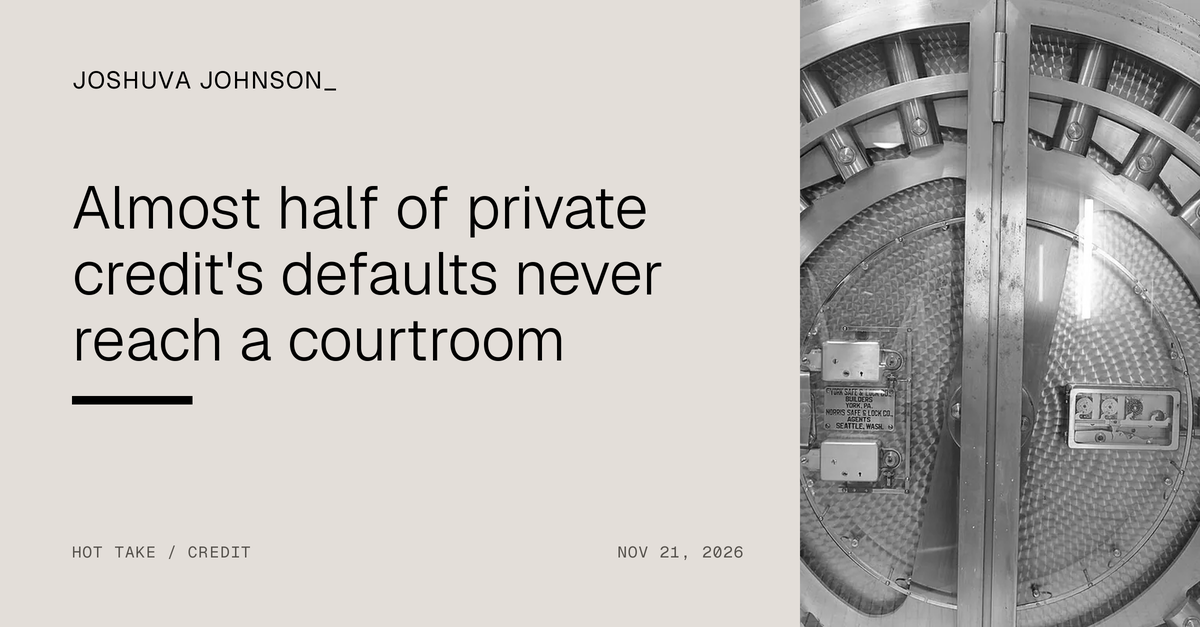
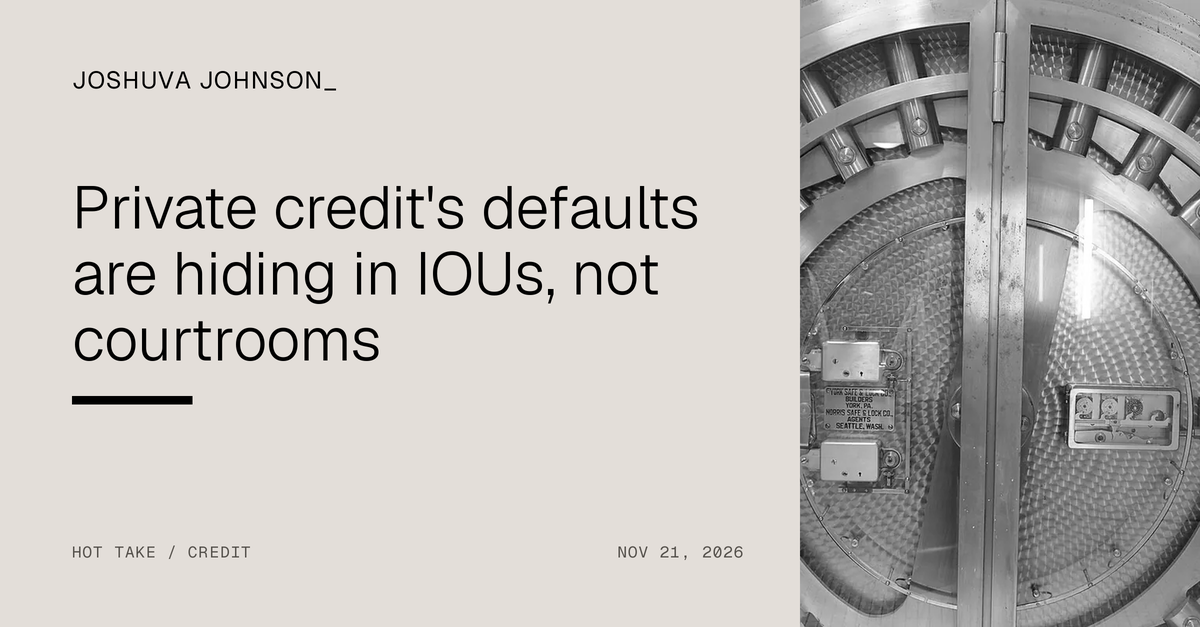
Notes: opinionated titles
- Did Microsoft just tell us where the AI bottleneck is?
- Private credit's defaults are hiding in IOUs, not courtrooms
- The AI story didn't break this week. Trust in it did.
- Wall Street bonuses are up again. 2026 might be the peak.
URLs unchanged; share images redrawn; Pitch Framework link text updated.

Claude-Session: https://claude.ai/code/session_01Dc4KQMDr4px4SMpMrXU2Lh

Changed region(s): [[0.0617, 0.3939, 0.555, 0.4848], [0.0617, 0.2727, 0.5858, 0.3636], [0.0617, 0.5152, 0.4933, 0.5758]]

diff --git a/index.html b/index.html
@@ -73,7 +73,7 @@
 <g class="x sn" data-s="computing copper energy metals power" data-k="energy" tabindex="0" role="button" aria-pressed="false" aria-label="Energy" aria-describedby="wc-energy"><circle class="hit" cx="250" cy="106" r="22"/><rect x="243" y="99" width="14" height="14"/><text class="snl" x="234" y="111" text-anchor="end">ENERGY</text></g>
 <a class="x bn pc" href="/research/copper/" data-s="copper energy metals" data-k="copper" aria-describedby="wc-copper"><circle class="halo" cx="190.0" cy="196.0" r="9"/><circle cx="190.0" cy="196.0" r="4.5"/><text class="bll" x="202" y="201" text-anchor="start">COPPER</text><title>Copper</title></a>
 <a class="x cn pc" href="/research/quantinuum/" data-s="computing" data-k="computing"><circle cx="362.8" cy="239.0" r="4.5"/><text class="tk" x="353" y="244" text-anchor="end">QNT</text><title>Quantinuum: Stock pitch: Hold</title></a>
-<a class="x cn pc" href="/notes/ai-bottleneck/" data-s="computing" data-k="computing"><circle cx="420.0" cy="140.0" r="4.5"/><text class="tk" x="420" y="130" text-anchor="middle">MSFT</text><title>Microsoft: Microsoft just told you where the AI bottleneck is</title></a>
+<a class="x cn pc" href="/notes/ai-bottleneck/" data-s="computing" data-k="computing"><circle cx="420.0" cy="140.0" r="4.5"/><text class="tk" x="420" y="130" text-anchor="middle">MSFT</text><title>Microsoft: Did Microsoft just tell us where the AI bottleneck is?</title></a>
 <g class="x cn" data-s="computing" data-k="computing"><circle cx="420.0" cy="272.0" r="4.5"/><text class="tk" x="420" y="292" text-anchor="middle">NVDA</text><title>Nvidia</title></g>
 <g class="x sn" data-s="computing defense drugs energy healthcare pltr power" data-k="computing" tabindex="0" role="button" aria-pressed="false" aria-label="Computing" aria-describedby="wc-computing"><circle class="hit" cx="420" cy="206" r="22"/><rect x="413" y="199" width="14" height="14"/><text class="snl" x="436" y="211" text-anchor="start">COMPUTING</text></g>
 <a class="x bn pc" href="/notes/ai-bottleneck/" data-s="computing energy power" data-k="power" aria-describedby="wc-power"><circle class="halo" cx="335.0" cy="156.0" r="9"/><circle cx="335.0" cy="156.0" r="4.5"/><text class="bll" x="344" y="147" text-anchor="start">AI POWER</text><title>AI power</title></a>
@@ -102,7 +102,7 @@
 <g class="x sn" data-s="computing copper energy metals power" data-k="energy" tabindex="0" role="button" aria-pressed="false" aria-label="Energy" aria-describedby="wc-energy"><circle class="hit" cx="250" cy="215" r="22"/><rect x="243" y="208" width="14" height="14"/><text class="snl" x="266" y="220" text-anchor="start">ENERGY</text></g>
 <a class="x bn pc" href="/research/copper/" data-s="copper energy metals" data-k="copper" aria-describedby="wc-copper"><circle class="halo" cx="180.0" cy="147.5" r="9"/><circle cx="180.0" cy="147.5" r="4.5"/><text class="bll" x="168" y="152" text-anchor="end">COPPER</text><title>Copper</title></a>
 <a class="x cn pc" href="/research/quantinuum/" data-s="computing" data-k="computing"><circle cx="132.0" cy="380.0" r="4.5"/><text class="tk" x="122" y="385" text-anchor="end">QNT</text><title>Quantinuum: Stock pitch: Hold</title></a>
-<a class="x cn pc" href="/notes/ai-bottleneck/" data-s="computing" data-k="computing"><circle cx="145.6" cy="342.7" r="4.5"/><text class="tk" x="136" y="348" text-anchor="end">MSFT</text><title>Microsoft: Microsoft just told you where the AI bottleneck is</title></a>
+<a class="x cn pc" href="/notes/ai-bottleneck/" data-s="computing" data-k="computing"><circle cx="145.6" cy="342.7" r="4.5"/><text class="tk" x="136" y="348" text-anchor="end">MSFT</text><title>Microsoft: Did Microsoft just tell us where the AI bottleneck is?</title></a>
 <g class="x cn" data-s="computing" data-k="computing"><circle cx="190.0" cy="438.0" r="4.5"/><text class="tk" x="190" y="458" text-anchor="middle">NVDA</text><title>Nvidia</title></g>
 <g class="x sn" data-s="computing defense drugs energy healthcare pltr power" data-k="computing" tabindex="0" role="button" aria-pressed="false" aria-label="Computing" aria-describedby="wc-computing"><circle class="hit" cx="190" cy="380" r="22"/><rect x="183" y="373" width="14" height="14"/><text class="snl" x="206" y="385" text-anchor="start">COMPUTING</text></g>
 <a class="x bn pc" href="/notes/ai-bottleneck/" data-s="computing energy power" data-k="power" aria-describedby="wc-power"><circle class="halo" cx="220.0" cy="297.5" r="9"/><circle cx="220.0" cy="297.5" r="4.5"/><text class="bll" x="232" y="302" text-anchor="start">AI POWER</text><title>AI power</title></a>
@@ -117,7 +117,7 @@
 <g class="x sn" data-s="computing drugs healthcare" data-k="healthcare" tabindex="0" role="button" aria-pressed="false" aria-label="Healthcare" aria-describedby="wc-healthcare"><circle class="hit" cx="110" cy="560" r="22"/><rect x="103" y="553" width="14" height="14"/><text class="snl" x="94" y="565" text-anchor="end">HEALTHCARE</text></g>
 <g class="x bn" data-s="computing drugs healthcare" data-k="drugs" tabindex="0" role="button" aria-pressed="false" aria-label="Drug discovery" aria-describedby="wc-drugs"><circle class="halo" cx="150.0" cy="470.0" r="9"/><circle cx="150.0" cy="470.0" r="4.5"/><text class="bll" x="138" y="475" text-anchor="end">DRUG DISCOVERY</text><title>Drug discovery</title></g>
 </svg>
-<figcaption class="wcap" aria-live="polite"><p class="wc wc-0">Interactive visual</p><p class="wc wc-metals" id="wc-metals"><b>Precious Metals:</b> Newmont, Agnico Eagle, and Wheaton Precious Metals. Linked to Energy through copper.</p><p class="wc wc-energy" id="wc-energy"><b>Energy:</b> <a href="/research/eaton/">Eaton</a>, GE Vernova, Vertiv, and Constellation Energy. Linked to Precious Metals through copper and to Computing through AI power demand.</p><p class="wc wc-computing" id="wc-computing"><b>Computing:</b> <a href="/research/palantir/">Palantir</a>, <a href="/research/quantinuum/">Quantinuum</a>, <a href="/notes/ai-bottleneck/">Microsoft</a>, and Nvidia. Linked to Energy through AI power demand, to Defense through Palantir, and to Healthcare through AI drug discovery.</p><p class="wc wc-defense" id="wc-defense"><b>Defense:</b> <a href="/research/palantir/">Palantir</a>, Lockheed Martin, RTX, and General Dynamics. Linked to Computing through Palantir.</p><p class="wc wc-healthcare" id="wc-healthcare"><b>Healthcare:</b> Eli Lilly, UnitedHealth, and Intuitive Surgical. Linked to Computing through AI drug discovery.</p><p class="wc wc-copper" id="wc-copper"><b>Copper, between Precious Metals and Energy:</b> Grids need copper. Newmont mined 135,000 tonnes of it last year, and Wheaton&#x27;s biggest gold stream comes from a copper mine. <a href="/research/copper/">Copper: a supply story that just met a demand scare</a>.</p><p class="wc wc-power" id="wc-power"><b>AI power, between Energy and Computing:</b> Microsoft&#x27;s AI capacity is running late on buildings, grid connections and power gear, which is what Eaton, Vertiv and GE Vernova sell. <a href="/notes/ai-bottleneck/">Microsoft just told you where the AI bottleneck is</a>.</p><p class="wc wc-pltr" id="wc-pltr"><b>Palantir, between Computing and Defense:</b> Palantir sells the same software to companies and to the U.S. military. <a href="/research/palantir/">Stock pitch: Sell</a>.</p><p class="wc wc-drugs" id="wc-drugs"><b>Drug discovery, between Computing and Healthcare:</b> Lilly&#x27;s AI supercomputer, built for drug discovery, runs on 1,016 Nvidia GPUs.</p></figcaption>
+<figcaption class="wcap" aria-live="polite"><p class="wc wc-0">Interactive visual</p><p class="wc wc-metals" id="wc-metals"><b>Precious Metals:</b> Newmont, Agnico Eagle, and Wheaton Precious Metals. Linked to Energy through copper.</p><p class="wc wc-energy" id="wc-energy"><b>Energy:</b> <a href="/research/eaton/">Eaton</a>, GE Vernova, Vertiv, and Constellation Energy. Linked to Precious Metals through copper and to Computing through AI power demand.</p><p class="wc wc-computing" id="wc-computing"><b>Computing:</b> <a href="/research/palantir/">Palantir</a>, <a href="/research/quantinuum/">Quantinuum</a>, <a href="/notes/ai-bottleneck/">Microsoft</a>, and Nvidia. Linked to Energy through AI power demand, to Defense through Palantir, and to Healthcare through AI drug discovery.</p><p class="wc wc-defense" id="wc-defense"><b>Defense:</b> <a href="/research/palantir/">Palantir</a>, Lockheed Martin, RTX, and General Dynamics. Linked to Computing through Palantir.</p><p class="wc wc-healthcare" id="wc-healthcare"><b>Healthcare:</b> Eli Lilly, UnitedHealth, and Intuitive Surgical. Linked to Computing through AI drug discovery.</p><p class="wc wc-copper" id="wc-copper"><b>Copper, between Precious Metals and Energy:</b> Grids need copper. Newmont mined 135,000 tonnes of it last year, and Wheaton&#x27;s biggest gold stream comes from a copper mine. <a href="/research/copper/">Copper: a supply story that just met a demand scare</a>.</p><p class="wc wc-power" id="wc-power"><b>AI power, between Energy and Computing:</b> Microsoft&#x27;s AI capacity is running late on buildings, grid connections and power gear, which is what Eaton, Vertiv and GE Vernova sell. <a href="/notes/ai-bottleneck/">Did Microsoft just tell us where the AI bottleneck is?</a>.</p><p class="wc wc-pltr" id="wc-pltr"><b>Palantir, between Computing and Defense:</b> Palantir sells the same software to companies and to the U.S. military. <a href="/research/palantir/">Stock pitch: Sell</a>.</p><p class="wc wc-drugs" id="wc-drugs"><b>Drug discovery, between Computing and Healthcare:</b> Lilly&#x27;s AI supercomputer, built for drug discovery, runs on 1,016 Nvidia GPUs.</p></figcaption>
 </figure>
     </section>
     <aside class="front-side">
@@ -135,7 +135,7 @@
       </section>
       <section aria-labelledby="latest-title">
         <h2 class="lbl" id="latest-title">Latest note</h2>
-        <a class="latest" href="/notes/rates-sell-off/">The price of risk, not the price of money</a>
+        <a class="latest" href="/notes/rates-sell-off/">The AI story didn&#x27;t break this week. Trust in it did.</a>
       </section>
     </aside>
   </div>
@@ -146,9 +146,9 @@
     <section aria-labelledby="notes-title">
       <div class="lbl-row"><h2 class="lbl" id="notes-title">Notes</h2><a class="go" href="/notes/" aria-label="All notes" title="All notes"><svg viewBox="0 0 16 16" aria-hidden="true"><path d="M2.5 8h10.5M9 4l4 4-4 4"/></svg></a></div>
       <ul class="hl">
-        <li><a href="/notes/ai-bottleneck/">Microsoft just told you where the AI bottleneck is</a></li>
-        <li><a href="/notes/private-credit-defaults/">Almost half of private credit&#x27;s defaults never reach a courtroom</a></li>
-        <li><a href="/notes/bonus-season/">Wall Street is about to get paid for a market that just changed</a></li>
+        <li><a href="/notes/ai-bottleneck/">Did Microsoft just tell us where the AI bottleneck is?</a></li>
+        <li><a href="/notes/private-credit-defaults/">Private credit&#x27;s defaults are hiding in IOUs, not courtrooms</a></li>
+        <li><a href="/notes/bonus-season/">Wall Street bonuses are up again. 2026 might be the peak.</a></li>
       </ul>
     </section>
     <section aria-labelledby="research-title">

diff --git a/notes/private-credit-defaults/index.html b/notes/private-credit-defaults/index.html
@@ -3,18 +3,18 @@
 <head>
 <meta charset="utf-8">
 <meta name="viewport" content="width=device-width, initial-scale=1">
-<title>Almost half of private credit&#x27;s defaults never reach a courtroom | Joshuva Johnson</title>
+<title>Private credit&#x27;s defaults are hiding in IOUs, not courtrooms | Joshuva Johnson</title>
 <meta name="description" content="Fitch&#x27;s default rate has been at or above 6% since April. Many of those borrowers now pay interest with more debt instead of cash, which delays the losses without avoiding them.">
 <link rel="canonical" href="https://joshuvajohnson.github.io/notes/private-credit-defaults/">
 <meta property="og:site_name" content="Joshuva Johnson">
-<meta property="og:title" content="Almost half of private credit&#x27;s defaults never reach a courtroom">
+<meta property="og:title" content="Private credit&#x27;s defaults are hiding in IOUs, not courtrooms">
 <meta property="og:description" content="Fitch&#x27;s default rate has been at or above 6% since April. Many of those borrowers now pay interest with more debt instead of cash, which delays the losses without avoiding them.">
 <meta property="og:url" content="https://joshuvajohnson.github.io/notes/private-credit-defaults/">
 <meta property="og:type" content="article">
 <meta property="og:image" content="https://joshuvajohnson.github.io/assets/og/notes-private-credit-defaults.png">
 <meta property="og:image:width" content="1200">
 <meta property="og:image:height" content="627">
-<meta property="og:image:alt" content="Almost half of private credit&#x27;s defaults never reach a courtroom">
+<meta property="og:image:alt" content="Private credit&#x27;s defaults are hiding in IOUs, not courtrooms">
 <meta name="twitter:card" content="summary_large_image">
 <meta property="article:published_time" content="2026-11-21">
 <meta property="article:author" content="Joshuva Johnson">
@@ -47,7 +47,7 @@
 <main id="main">
 <article class="artwrap gut">
   <p class="crumbs"><a href="/notes/">Notes</a><span>/</span><span>Hot take</span></p>
-  <h1>Almost half of private credit&#x27;s defaults never reach a courtroom</h1>
+  <h1>Private credit&#x27;s defaults are hiding in IOUs, not courtrooms</h1>
   <p class="dek">Fitch&#x27;s default rate has been at or above 6% since April. Many of those borrowers now pay interest with more debt instead of cash, which delays the losses without avoiding them.</p>
   <p class="byline"><b>Joshuva Johnson</b><time datetime="2026-11-21">Nov 21, 2026</time></p>
 <figure class="lead photo"><img src="/assets/img/lead/notes-private-credit-defaults-1200.webp" srcset="/assets/img/lead/notes-private-credit-defaults-600.webp 600w, /assets/img/lead/notes-private-credit-defaults-1200.webp 1200w" sizes="(max-width: 640px) 100vw, 880px" width="1200" height="800" alt="The round steel door of an old bank vault"><figcaption>Photo: <a href="https://commons.wikimedia.org/wiki/File:Bouldering_Project_(old_University_National_Bank)_30_-_sauna_(vault)_area.jpg">Joe Mabel</a>, <a href="https://creativecommons.org/licenses/by-sa/4.0/">CC BY-SA 4.0</a>, cropped</figcaption></figure>
@@ -74,7 +74,7 @@
 <li><a href="https://www.efinancialcareers.com/news/2026-bonuses-finance">2026 bonuses in finance</a>, eFinancialCareers</li>
 </ol></section>
 
-  <nav class="pager" aria-label="More in Notes"><a class="nextup" href="/notes/ai-bottleneck/"><p class="kick">Previous</p><h3>Microsoft just told you where the AI bottleneck is</h3></a><a class="nextup" href="/notes/bonus-season/"><p class="kick">Next</p><h3>Wall Street is about to get paid for a market that just changed</h3></a></nav>
+  <nav class="pager" aria-label="More in Notes"><a class="nextup" href="/notes/ai-bottleneck/"><p class="kick">Previous</p><h3>Did Microsoft just tell us where the AI bottleneck is?</h3></a><a class="nextup" href="/notes/bonus-season/"><p class="kick">Next</p><h3>Wall Street bonuses are up again. 2026 might be the peak.</h3></a></nav>
 </article>
 </main>
 

diff --git a/notes/ai-bottleneck/index.html b/notes/ai-bottleneck/index.html
@@ -3,18 +3,18 @@
 <head>
 <meta charset="utf-8">
 <meta name="viewport" content="width=device-width, initial-scale=1">
-<title>Microsoft just told you where the AI bottleneck is | Joshuva Johnson</title>
+<title>Did Microsoft just tell us where the AI bottleneck is? | Joshuva Johnson</title>
 <meta name="description" content="Microsoft is spending as fast as it can and still running short of AI capacity. The holdup is buildings, grid connections and the electrical gear in between.">
 <link rel="canonical" href="https://joshuvajohnson.github.io/notes/ai-bottleneck/">
 <meta property="og:site_name" content="Joshuva Johnson">
-<meta property="og:title" content="Microsoft just told you where the AI bottleneck is">
+<meta property="og:title" content="Did Microsoft just tell us where the AI bottleneck is?">
 <meta property="og:description" content="Microsoft is spending as fast as it can and still running short of AI capacity. The holdup is buildings, grid connections and the electrical gear in between.">
 <meta property="og:url" content="https://joshuvajohnson.github.io/notes/ai-bottleneck/">
 <meta property="og:type" content="article">
 <meta property="og:image" content="https://joshuvajohnson.github.io/assets/og/notes-ai-bottleneck.png">
 <meta property="og:image:width" content="1200">
 <meta property="og:image:height" content="627">
-<meta property="og:image:alt" content="Microsoft just told you where the AI bottleneck is">
+<meta property="og:image:alt" content="Did Microsoft just tell us where the AI bottleneck is?">
 <meta name="twitter:card" content="summary_large_image">
 <meta property="article:published_time" content="2026-11-21">
 <meta property="article:author" content="Joshuva Johnson">
@@ -47,7 +47,7 @@
 <main id="main">
 <article class="artwrap gut">
   <p class="crumbs"><a href="/notes/">Notes</a><span>/</span><span>Hot take</span></p>
-  <h1>Microsoft just told you where the AI bottleneck is</h1>
+  <h1>Did Microsoft just tell us where the AI bottleneck is?</h1>
   <p class="dek">Microsoft is spending as fast as it can and still running short of AI capacity. The holdup is buildings, grid connections and the electrical gear in between.</p>
   <p class="byline"><b>Joshuva Johnson</b><time datetime="2026-11-21">Nov 21, 2026</time></p>
 <figure class="lead photo"><img src="/assets/img/lead/notes-ai-bottleneck-1200.webp" srcset="/assets/img/lead/notes-ai-bottleneck-600.webp 600w, /assets/img/lead/notes-ai-bottleneck-1200.webp 1200w" sizes="(max-width: 640px) 100vw, 880px" width="1200" height="800" alt="Rows of server racks in a data center"><figcaption>Photo: <a href="https://commons.wikimedia.org/wiki/File:Racks_Amravati_Data_Center.jpg">PiDatacenters</a>, <a href="https://creativecommons.org/licenses/by-sa/4.0/">CC BY-SA 4.0</a>, cropped</figcaption></figure>
@@ -71,7 +71,7 @@
 <li><a href="https://www.tikr.com/blog/eaton-lost-23-in-a-month-rbc-sees-58-upside-from-here">Eaton Lost 23% in a Month</a>, TIKR</li>
 </ol></section>
 
-  <nav class="pager" aria-label="More in Notes"><a class="nextup" href="/notes/rates-sell-off/"><p class="kick">Previous</p><h3>The price of risk, not the price of money</h3></a><a class="nextup" href="/notes/private-credit-defaults/"><p class="kick">Next</p><h3>Almost half of private credit&#x27;s defaults never reach a courtroom</h3></a></nav>
+  <nav class="pager" aria-label="More in Notes"><a class="nextup" href="/notes/rates-sell-off/"><p class="kick">Previous</p><h3>The AI story didn&#x27;t break this week. Trust in it did.</h3></a><a class="nextup" href="/notes/private-credit-defaults/"><p class="kick">Next</p><h3>Private credit&#x27;s defaults are hiding in IOUs, not courtrooms</h3></a></nav>
 </article>
 </main>
 

diff --git a/notes/bonus-season/index.html b/notes/bonus-season/index.html
@@ -3,18 +3,18 @@
 <head>
 <meta charset="utf-8">
 <meta name="viewport" content="width=device-width, initial-scale=1">
-<title>Wall Street is about to get paid for a market that just changed | Joshuva Johnson</title>
+<title>Wall Street bonuses are up again. 2026 might be the peak. | Joshuva Johnson</title>
 <meta name="description" content="Johnson Associates expects bonuses to rise for a third straight year, led by equity traders and underwriters. The harder question is whether the deals that paid for them keep coming at today&#x27;s rates.">
 <link rel="canonical" href="https://joshuvajohnson.github.io/notes/bonus-season/">
 <meta property="og:site_name" content="Joshuva Johnson">
-<meta property="og:title" content="Wall Street is about to get paid for a market that just changed">
+<meta property="og:title" content="Wall Street bonuses are up again. 2026 might be the peak.">
 <meta property="og:description" content="Johnson Associates expects bonuses to rise for a third straight year, led by equity traders and underwriters. The harder question is whether the deals that paid for them keep coming at today&#x27;s rates.">
 <meta property="og:url" content="https://joshuvajohnson.github.io/notes/bonus-season/">
 <meta property="og:type" content="article">
 <meta property="og:image" content="https://joshuvajohnson.github.io/assets/og/notes-bonus-season.png">
 <meta property="og:image:width" content="1200">
 <meta property="og:image:height" content="627">
-<meta property="og:image:alt" content="Wall Street is about to get paid for a market that just changed">
+<meta property="og:image:alt" content="Wall Street bonuses are up again. 2026 might be the peak.">
 <meta name="twitter:card" content="summary_large_image">
 <meta property="article:published_time" content="2026-11-21">
 <meta property="article:author" content="Joshuva Johnson">
@@ -47,7 +47,7 @@
 <main id="main">
 <article class="artwrap gut">
   <p class="crumbs"><a href="/notes/">Notes</a><span>/</span><span>Hot take</span></p>
-  <h1>Wall Street is about to get paid for a market that just changed</h1>
+  <h1>Wall Street bonuses are up again. 2026 might be the peak.</h1>
   <p class="dek">Johnson Associates expects bonuses to rise for a third straight year, led by equity traders and underwriters. The harder question is whether the deals that paid for them keep coming at today&#x27;s rates.</p>
   <p class="byline"><b>Joshuva Johnson</b><time datetime="2026-11-21">Nov 21, 2026</time></p>
 <figure class="lead photo"><img src="/assets/img/lead/notes-bonus-season-1200.webp" srcset="/assets/img/lead/notes-bonus-season-600.webp 600w, /assets/img/lead/notes-bonus-season-1200.webp 1200w" sizes="(max-width: 640px) 100vw, 880px" width="1200" height="800" alt="A Wall Street street sign against a glass office tower"><figcaption>Photo: <a href="https://commons.wikimedia.org/wiki/File:Wall-Street-Sign-New-York.jpg">Acediscovery</a>, <a href="https://creativecommons.org/licenses/by/4.0/">CC BY 4.0</a>, cropped</figcaption></figure>
@@ -69,7 +69,7 @@
 <li><a href="https://www.morningstar.com/news/dow-jones/202611198503/10-year-treasury-yield-falls-to-5051-data-talk">10-Year Treasury Yield Falls to 5.051%</a>, Dow Jones via Morningstar</li>
 </ol></section>
 
-  <nav class="pager" aria-label="More in Notes"><a class="nextup" href="/notes/private-credit-defaults/"><p class="kick">Previous</p><h3>Almost half of private credit&#x27;s defaults never reach a courtroom</h3></a></nav>
+  <nav class="pager" aria-label="More in Notes"><a class="nextup" href="/notes/private-credit-defaults/"><p class="kick">Previous</p><h3>Private credit&#x27;s defaults are hiding in IOUs, not courtrooms</h3></a></nav>
 </article>
 </main>
 

diff --git a/notes/rates-sell-off/index.html b/notes/rates-sell-off/index.html
@@ -3,18 +3,18 @@
 <head>
 <meta charset="utf-8">
 <meta name="viewport" content="width=device-width, initial-scale=1">
-<title>The price of risk, not the price of money | Joshuva Johnson</title>
+<title>The AI story didn&#x27;t break this week. Trust in it did. | Joshuva Johnson</title>
 <meta name="description" content="The 10-year Treasury yield fell this week, and the S&amp;P 500 dropped 8.6% anyway. Investors are charging more to hold risk, and the AI trade sits in the middle of it.">
 <link rel="canonical" href="https://joshuvajohnson.github.io/notes/rates-sell-off/">
 <meta property="og:site_name" content="Joshuva Johnson">
-<meta property="og:title" content="The price of risk, not the price of money">
+<meta property="og:title" content="The AI story didn&#x27;t break this week. Trust in it did.">
 <meta property="og:description" content="The 10-year Treasury yield fell this week, and the S&amp;P 500 dropped 8.6% anyway. Investors are charging more to hold risk, and the AI trade sits in the middle of it.">
 <meta property="og:url" content="https://joshuvajohnson.github.io/notes/rates-sell-off/">
 <meta property="og:type" content="article">
 <meta property="og:image" content="https://joshuvajohnson.github.io/assets/og/notes-rates-sell-off.png">
 <meta property="og:image:width" content="1200">
 <meta property="og:image:height" content="627">
-<meta property="og:image:alt" content="The price of risk, not the price of money">
+<meta property="og:image:alt" content="The AI story didn&#x27;t break this week. Trust in it did.">
 <meta name="twitter:card" content="summary_large_image">
 <meta property="article:published_time" content="2026-11-22">
 <meta property="article:author" content="Joshuva Johnson">
@@ -47,7 +47,7 @@
 <main id="main">
 <article class="artwrap gut">
   <p class="crumbs"><a href="/notes/">Notes</a><span>/</span><span>Hot take</span></p>
-  <h1>The price of risk, not the price of money</h1>
+  <h1>The AI story didn&#x27;t break this week. Trust in it did.</h1>
   <p class="dek">The 10-year Treasury yield fell this week, and the S&amp;P 500 dropped 8.6% anyway. Investors are charging more to hold risk, and the AI trade sits in the middle of it.</p>
   <p class="byline"><b>Joshuva Johnson</b><time datetime="2026-11-22">Nov 22, 2026</time></p>
 <figure class="lead photo"><img src="/assets/img/lead/notes-rates-sell-off-1200.webp" srcset="/assets/img/lead/notes-rates-sell-off-600.webp 600w, /assets/img/lead/notes-rates-sell-off-1200.webp 1200w" sizes="(max-width: 640px) 100vw, 880px" width="1200" height="800" alt="The columns of the New York Stock Exchange on Broad Street"><figcaption>Photo: <a href="https://commons.wikimedia.org/wiki/File:Sign_of_the_New_York_Stock_Exchange,_Broad_Street.jpg">Billie Grace Ward</a>, <a href="https://creativecommons.org/publicdomain/zero/1.0/">CC0</a></figcaption></figure>
@@ -94,7 +94,7 @@
 <li><a href="https://www.fxstreet.com/news/us-10-year-treasury-yield-slips-below-5-as-global-equity-rout-deepens-202611201233">US 10-year Treasury yield slips below 5% as global equity rout deepens</a>, FXStreet, Nov 20, 2026</li>
 </ol></section>
 
-  <nav class="pager" aria-label="More in Notes"><a class="nextup" href="/notes/ai-bottleneck/"><p class="kick">Next</p><h3>Microsoft just told you where the AI bottleneck is</h3></a></nav>
+  <nav class="pager" aria-label="More in Notes"><a class="nextup" href="/notes/ai-bottleneck/"><p class="kick">Next</p><h3>Did Microsoft just tell us where the AI bottleneck is?</h3></a></nav>
 </article>
 </main>
 

diff --git a/notes/index.html b/notes/index.html
@@ -47,10 +47,10 @@
 <section class="gut" aria-label="All notes">
   <div class="wrap">
     <div class="grid2">
-      <a class="cardlink" href="/notes/rates-sell-off/"><div class="card"><h3>The price of risk, not the price of money</h3><p class="dek">The 10-year Treasury yield fell this week, and the S&amp;P 500 dropped 8.6% anyway. Investors are charging more to hold risk, and the AI trade sits in the middle of it.</p></div></a>
-      <a class="cardlink" href="/notes/ai-bottleneck/"><div class="card"><h3>Microsoft just told you where the AI bottleneck is</h3><p class="dek">Microsoft is spending as fast as it can and still running short of AI capacity. The holdup is buildings, grid connections and the electrical gear in between.</p></div></a>
-      <a class="cardlink" href="/notes/private-credit-defaults/"><div class="card"><h3>Almost half of private credit&#x27;s defaults never reach a courtroom</h3><p class="dek">Fitch&#x27;s default rate has been at or above 6% since April. Many of those borrowers now pay interest with more debt instead of cash, which delays the losses without avoiding them.</p></div></a>
-      <a class="cardlink" href="/notes/bonus-season/"><div class="card"><h3>Wall Street is about to get paid for a market that just changed</h3><p class="dek">Johnson Associates expects bonuses to rise for a third straight year, led by equity traders and underwriters. The harder question is whether the deals that paid for them keep coming at today&#x27;s rates.</p></div></a>
+      <a class="cardlink" href="/notes/rates-sell-off/"><div class="card"><h3>The AI story didn&#x27;t break this week. Trust in it did.</h3><p class="dek">The 10-year Treasury yield fell this week, and the S&amp;P 500 dropped 8.6% anyway. Investors are charging more to hold risk, and the AI trade sits in the middle of it.</p></div></a>
+      <a class="cardlink" href="/notes/ai-bottleneck/"><div class="card"><h3>Did Microsoft just tell us where the AI bottleneck is?</h3><p class="dek">Microsoft is spending as fast as it can and still running short of AI capacity. The holdup is buildings, grid connections and the electrical gear in between.</p></div></a>
+      <a class="cardlink" href="/notes/private-credit-defaults/"><div class="card"><h3>Private credit&#x27;s defaults are hiding in IOUs, not courtrooms</h3><p class="dek">Fitch&#x27;s default rate has been at or above 6% since April. Many of those borrowers now pay interest with more debt instead of cash, which delays the losses without avoiding them.</p></div></a>
+      <a class="cardlink" href="/notes/bonus-season/"><div class="card"><h3>Wall Street bonuses are up again. 2026 might be the peak.</h3><p class="dek">Johnson Associates expects bonuses to rise for a third straight year, led by equity traders and underwriters. The harder question is whether the deals that paid for them keep coming at today&#x27;s rates.</p></div></a>
     </div>
   </div>
 </section>

diff --git a/thoughts/private-credit-defaults/index.html b/thoughts/private-credit-defaults/index.html
@@ -1,1 +1,1 @@
-<!DOCTYPE html><html lang="en"><head><meta charset="utf-8"><title>Almost half of private credit&#x27;s defaults never reach a courtroom | Joshuva Johnson</title><link rel="canonical" href="https://joshuvajohnson.github.io/notes/private-credit-defaults/"><meta name="robots" content="noindex"><meta http-equiv="refresh" content="0; url=/notes/private-credit-defaults/"><script>location.replace("/notes/private-credit-defaults/"+location.hash)</script></head><body><p>This page moved to <a href="/notes/private-credit-defaults/">Almost half of private credit&#x27;s defaults never reach a courtroom</a>.</p></body></html>
+<!DOCTYPE html><html lang="en"><head><meta charset="utf-8"><title>Private credit&#x27;s defaults are hiding in IOUs, not courtrooms | Joshuva Johnson</title><link rel="canonical" href="https://joshuvajohnson.github.io/notes/private-credit-defaults/"><meta name="robots" content="noindex"><meta http-equiv="refresh" content="0; url=/notes/private-credit-defaults/"><script>location.replace("/notes/private-credit-defaults/"+location.hash)</script></head><body><p>This page moved to <a href="/notes/private-credit-defaults/">Private credit&#x27;s defaults are hiding in IOUs, not courtrooms</a>.</p></body></html>

diff --git a/thoughts/bonus-season/index.html b/thoughts/bonus-season/index.html
@@ -1,1 +1,1 @@
-<!DOCTYPE html><html lang="en"><head><meta charset="utf-8"><title>Wall Street is about to get paid for a market that just changed | Joshuva Johnson</title><link rel="canonical" href="https://joshuvajohnson.github.io/notes/bonus-season/"><meta name="robots" content="noindex"><meta http-equiv="refresh" content="0; url=/notes/bonus-season/"><script>location.replace("/notes/bonus-season/"+location.hash)</script></head><body><p>This page moved to <a href="/notes/bonus-season/">Wall Street is about to get paid for a market that just changed</a>.</p></body></html>
+<!DOCTYPE html><html lang="en"><head><meta charset="utf-8"><title>Wall Street bonuses are up again. 2026 might be the peak. | Joshuva Johnson</title><link rel="canonical" href="https://joshuvajohnson.github.io/notes/bonus-season/"><meta name="robots" content="noindex"><meta http-equiv="refresh" content="0; url=/notes/bonus-season/"><script>location.replace("/notes/bonus-season/"+location.hash)</script></head><body><p>This page moved to <a href="/notes/bonus-season/">Wall Street bonuses are up again. 2026 might be the peak.</a>.</p></body></html>

diff --git a/thoughts/ai-bottleneck/index.html b/thoughts/ai-bottleneck/index.html
@@ -1,1 +1,1 @@
-<!DOCTYPE html><html lang="en"><head><meta charset="utf-8"><title>Microsoft just told you where the AI bottleneck is | Joshuva Johnson</title><link rel="canonical" href="https://joshuvajohnson.github.io/notes/ai-bottleneck/"><meta name="robots" content="noindex"><meta http-equiv="refresh" content="0; url=/notes/ai-bottleneck/"><script>location.replace("/notes/ai-bottleneck/"+location.hash)</script></head><body><p>This page moved to <a href="/notes/ai-bottleneck/">Microsoft just told you where the AI bottleneck is</a>.</p></body></html>
+<!DOCTYPE html><html lang="en"><head><meta charset="utf-8"><title>Did Microsoft just tell us where the AI bottleneck is? | Joshuva Johnson</title><link rel="canonical" href="https://joshuvajohnson.github.io/notes/ai-bottleneck/"><meta name="robots" content="noindex"><meta http-equiv="refresh" content="0; url=/notes/ai-bottleneck/"><script>location.replace("/notes/ai-bottleneck/"+location.hash)</script></head><body><p>This page moved to <a href="/notes/ai-bottleneck/">Did Microsoft just tell us where the AI bottleneck is?</a>.</p></body></html>

diff --git a/thoughts/rates-sell-off/index.html b/thoughts/rates-sell-off/index.html
@@ -1,1 +1,1 @@
-<!DOCTYPE html><html lang="en"><head><meta charset="utf-8"><title>The price of risk, not the price of money | Joshuva Johnson</title><link rel="canonical" href="https://joshuvajohnson.github.io/notes/rates-sell-off/"><meta name="robots" content="noindex"><meta http-equiv="refresh" content="0; url=/notes/rates-sell-off/"><script>location.replace("/notes/rates-sell-off/"+location.hash)</script></head><body><p>This page moved to <a href="/notes/rates-sell-off/">The price of risk, not the price of money</a>.</p></body></html>
+<!DOCTYPE html><html lang="en"><head><meta charset="utf-8"><title>The AI story didn&#x27;t break this week. Trust in it did. | Joshuva Johnson</title><link rel="canonical" href="https://joshuvajohnson.github.io/notes/rates-sell-off/"><meta name="robots" content="noindex"><meta http-equiv="refresh" content="0; url=/notes/rates-sell-off/"><script>location.replace("/notes/rates-sell-off/"+location.hash)</script></head><body><p>This page moved to <a href="/notes/rates-sell-off/">The AI story didn&#x27;t break this week. Trust in it did.</a>.</p></body></html>

diff --git a/research/method/index.html b/research/method/index.html
@@ -140,7 +140,7 @@
       </article>
 
     </div>
-    <p class="method-end">The cost of capital behind every valuation is the risk-free rate plus beta times the equity risk premium, updated when markets move. I explain the latest change in <a href="/notes/rates-sell-off/">The price of risk, not the price of money</a>.</p>
+    <p class="method-end">The cost of capital behind every valuation is the risk-free rate plus beta times the equity risk premium, updated when markets move. I explain the latest change in <a href="/notes/rates-sell-off/">The AI story didn't break this week. Trust in it did.</a></p>
   </div>
 </section>
 

diff --git a/src/content/pages/method.html b/src/content/pages/method.html
@@ -98,6 +98,6 @@
       </article>
 
     </div>
-    <p class="method-end">The cost of capital behind every valuation is the risk-free rate plus beta times the equity risk premium, updated when markets move. I explain the latest change in <a href="/notes/rates-sell-off/">The price of risk, not the price of money</a>.</p>
+    <p class="method-end">The cost of capital behind every valuation is the risk-free rate plus beta times the equity risk premium, updated when markets move. I explain the latest change in <a href="/notes/rates-sell-off/">The AI story didn't break this week. Trust in it did.</a></p>
   </div>
 </section>
